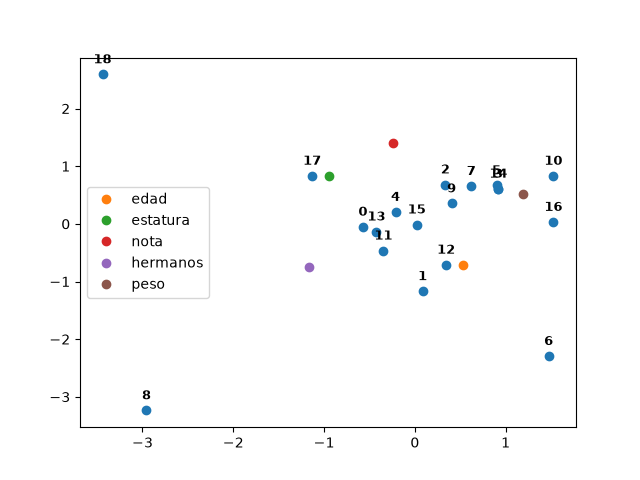
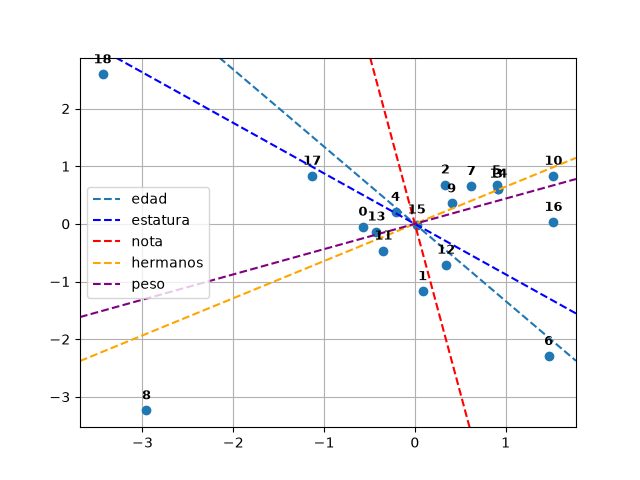
pca

diff --git a/src/tarea.py b/src/tarea.py
@@ -30,12 +30,14 @@ print("\n--- Porcentaje de Varianza Explicada por componente ---")
 for i, ratio in enumerate(variance_ratio[:n_components]):
     print(f"PC{i+1}: {ratio * 100:.2f}%")
 
+plt.grid()
 plt.plot(X_pca[:,0],X_pca[:,1], 'o' )
-plt.plot(Vt[0,0] * 2,Vt[1,0] * 2, 'o', label = 'edad')
-plt.plot(Vt[0,1] * 2,Vt[1,1] * 2, 'o', label = 'estatura')
-plt.plot(Vt[0,2] * 2,Vt[1,2] * 2, 'o', label = 'nota')
-plt.plot(Vt[0,3] * 2,Vt[1,3] * 2, 'o', label = 'hermanos')
-plt.plot(Vt[0,4] * 2,Vt[1,4] * 2, 'o', label = 'peso')
+plt.axline((0, 0), (Vt[0,0] * 2,Vt[1,0] * 2), linestyle="--", label="edad")
+plt.axline((0, 0), (Vt[0,1] * 2,Vt[1,1] * 2), color="blue", linestyle="--", label="estatura")
+plt.axline((0, 0), (Vt[0,2] * 2,Vt[1,2] * 2), color="red", linestyle="--", label="nota")
+plt.axline((0, 0), (Vt[0,3] * 2,Vt[1,3] * 2), color="orange", linestyle="--", label="hermanos")
+plt.axline((0, 0), (Vt[0,4] * 2,Vt[1,4] * 2), color="purple", linestyle="--", label="peso")
+
 plt.legend();
 
 print(X[8])
@@ -53,3 +55,20 @@ for idx, (xi, yi) in enumerate(zip(X_pca[:,0], X_pca[:,1])):
         fontweight='bold'           # Negrita para mejor lectura en pantallas de celular
     )
 plt.savefig("holi.png")
+
+n_components = 3
+X_pca = U[:, :n_components] * S[:n_components]
+
+fig = plt.figure()
+ax = fig.add_subplot(111, projection='3d')
+
+ax.grid()
+ax.plot(X_pca[:,0],X_pca[:,1],X_pca[:,2], 'o' )
+ax.plot(Vt[0,0] * 2,Vt[1,0] * 2, Vt[2,0] * 2, 'o', label = 'edad')
+ax.plot(Vt[0,1] * 2,Vt[1,1] * 2, Vt[2,1] * 2, 'o', label = 'estatura')
+ax.plot(Vt[0,2] * 2,Vt[1,2] * 2, Vt[2,2] * 2, 'o', label = 'nota')
+ax.plot(Vt[0,3] * 2,Vt[1,3] * 2, Vt[2,3] * 2, 'o', label = 'hermanos')
+ax.plot(Vt[0,4] * 2,Vt[1,4] * 2, Vt[2,4] * 2, 'o', label = 'peso')
+ax.legend();
+
+fig.savefig("holiasdf.png")

diff --git a/src/main.c b/src/main.c
@@ -16,12 +16,6 @@ void analysis_and_graph(const char* file_wno_extension, float percent);
 
 int main(void) {
   setvbuf(stdout, NULL, _IONBF, 0);
-  //svd_svc_image("../res/Image_01.png", "../res/Image_01_feo.png", 1);
-  //svd_svc_image("../res/Image_02.png", "../res/Image_02_feo.png", 1);
-  //svd_svc_image("../res/Image_03.png", "../res/Image_03_feo.png", 1);
-  //svd_svc_image("../res/Image_04.png", "../res/Image_04_feo.png", 1);
-  //svd_svc_image("../res/Image_05.png", "../res/Image_05_feo.png", 1);
-  //svd_svc_image("../res/Image_06.png", "../res/Image_06_feo.png", 1);
   int channels = 3;
   //svd_and_save("../res/Image_01", channels);
   //svd_and_save("../res/Image_02", channels);
